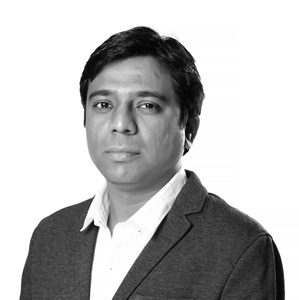
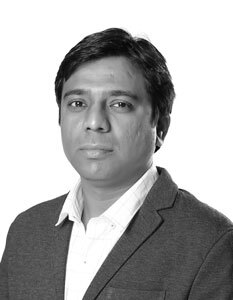
Rebuild the Our Team page from the current site's team
Shows the General Manager's message from hyssnainternational.com in its own
panel, then all 28 people across nine departments with their photos and
titles, grouped by department with a filter to show one at a time. People
who are no longer on the current site are left out.

Claude-Session: https://claude.ai/code/session_018ivjc74GiCrEBKV7VEWtDu

diff --git a/team.html b/team.html
@@ -4,7 +4,7 @@
 <meta charset="utf-8">
 <meta name="viewport" content="width=device-width, initial-scale=1, viewport-fit=cover">
 <title>Our team | Hyssna International</title>
-<meta name="description" content="Meet the team behind Hyssna International&#x27;s interior fit-out, design and joinery work.">
+<meta name="description" content="Meet Mr. Bassam Moussa, General Manager, and the 28 people across design, planning, procurement, projects, HSE and joinery at Hyssna International.">
 <link rel="icon" href="assets/media/favicon.png">
 <link rel="preconnect" href="https://fonts.googleapis.com">
 <link rel="preconnect" href="https://fonts.gstatic.com" crossorigin>
@@ -41,29 +41,58 @@
 <section class="intro">
   <div class="container">
     <nav aria-label="Breadcrumb"><ol class="crumbs"><li><a href="index.html" aria-label="Home"><svg viewBox="0 0 16 16" aria-hidden="true"><path d="M8 1.5 1 7.2V15h5v-4.5h4V15h5V7.2z"/></svg></a></li><li aria-current="page">Our team</li></ol></nav>
-    <div class="intro-copy"><h1>The people behind the work.</h1><p>Industry professionals across design, planning, procurement, projects, joinery and HSE, working as one team.</p></div>
+    <div class="intro-copy"><h1>The people behind the work.</h1><p>28 specialists across nine departments, led by our General Manager, Mr. Bassam Moussa.</p></div>
     
   </div>
 </section>
-<section class="sec tight" aria-label="A word from our General Manager">
-  <div class="container quote">
-    <div class="media"><img src="assets/media/team/gm.jpg" alt="General Manager of Hyssna International" loading="lazy"></div>
-    <blockquote class="reveal">
-      <p>"Our strength lies in teamwork: sharing strategies, knowledge and ideas across every department, with an open flow of communication and real team spirit."</p>
-      <footer><b>General Manager</b>Hyssna International L.L.C.</footer>
-    </blockquote>
+<section class="sec cream panel gm" aria-labelledby="gm-title">
+  <div class="container gm-grid">
+    <div class="gm-side reveal">
+      <div class="gm-photo"><img src="assets/media/team/bassam-moussa.jpg" alt="Mr. Bassam Moussa, General Manager of Hyssna International"></div>
+      <p class="gm-name"><b>Mr. Bassam Moussa</b>General Manager</p>
+    </div>
+    <div class="gm-body">
+      <span class="kicker reveal">A message from our General Manager</span>
+      <h2 id="gm-title" class="gm-quote reveal">Hyssna caters to understanding clients need &amp; addressing their need.</h2>
+      <div class="gm-text reveal"><p>It is my pleasure to introduce Hyssna International LLC as a leading interior contracting and designing company in UAE. Over three decades, Hyssna has been providing a quality service to our customers who have been looking for a company that could provide excellent and competitive services.</p><p>At Hyssna, we are committed to produce prominent and innovative interior design solutions especially for your working atmosphere. We are specialized in designing, planning and implementing of both domestic and commercial interiors. We enjoy good reputation for quality designs and high skills within your own budget and time scale.</p><p>Hyssna is built a reputation for consistently achieving highly individual aesthetic results for a discerning local clientele. We place particular emphasis on understanding our clients’ requirements prior to producing design solutions, which often surpass expectations. Our enthusiastic and experienced professionals, approach each project as a new challenge. We offer different style and innovative approach in our design concept and solutions.</p><p>Hyssna has committed in completing each project to the highest standards, while taking on the challenge of capturing its unique individuality. We have extensive experience in materials and manufacturing techniques, both locally and internationally, and able to provide our clients with everything they aspire for, within the budget they choose.</p><p>Hyssna offers you total solutions for Turnkey Projects under one roof. If you have an idea or concept you would like to discuss why not give us a call and see how we can start to play an active role to fulfill the design of your choice and liking.</p></div>
+      <p class="gm-sign reveal"><b>Mr. Bassam Moussa</b>General Manager, Hyssna International LLC</p>
+    </div>
   </div>
 </section>
-<section class="sec" aria-labelledby="meet-title">
+<section class="sec team" aria-labelledby="meet-title">
   <div class="container">
-    <div class="sec-title reveal"><h2 id="meet-title">Meet the team</h2></div>
-    <ul class="people"><li class="reveal"><div class="media"><img src="assets/media/team/abdallah.jpg" alt="Abdallah, Project Department" loading="lazy"></div><b>Abdallah</b><span>Project Department</span></li><li class="reveal"><div class="media"><img src="assets/media/team/musthafa.jpg" alt="Musthafa, Project Department" loading="lazy"></div><b>Musthafa</b><span>Project Department</span></li><li class="reveal"><div class="media"><img src="assets/media/team/bivi.jpg" alt="Bivi, Designer, Design Department" loading="lazy"></div><b>Bivi</b><span>Designer, Design Department</span></li><li class="reveal"><div class="media"><img src="assets/media/team/rommel.jpg" alt="Rommel, MEP Designer, Design Department" loading="lazy"></div><b>Rommel</b><span>MEP Designer, Design Department</span></li><li class="reveal"><div class="media"><img src="assets/media/team/sreenath.jpg" alt="Sreenath, Hyssna team" loading="lazy"></div><b>Sreenath</b><span>Hyssna team</span></li><li class="reveal"><div class="media"><img src="assets/media/team/clyde.jpg" alt="Clyde, Hyssna team" loading="lazy"></div><b>Clyde</b><span>Hyssna team</span></li><li class="reveal"><div class="media"><img src="assets/media/team/bassair.jpg" alt="Bassair, Hyssna team" loading="lazy"></div><b>Bassair</b><span>Hyssna team</span></li></ul>
-  </div>
-</section>
-<section class="sec cream panel" aria-labelledby="dept-title">
-  <div class="container">
-    <div class="sec-title reveal"><h2 id="dept-title">Every discipline, in-house</h2><p>Each department brings its own expertise, and all of them work to one programme and one standard.</p></div>
-    <ul class="icons "><li><span class="ic" aria-hidden="true"><svg viewBox="0 0 24 24"><path d="M4 20l4.5-1L19 8.5 15.5 5 5 15.5 4 20zM13.5 7l3.5 3.5"/></svg></span><h3>Design</h3><p>Architects, interior designers and engineers with more than 35 years of collective experience, from 2D layouts to 3D animation.</p></li><li><span class="ic" aria-hidden="true"><svg viewBox="0 0 24 24"><path d="M4 6h16v14H4zM4 10h16M8 3v4M16 3v4"/></svg></span><h3>Planning</h3><p>Led by Planning Manager Mr. Robin Francisco, the team builds the contractual programme in Primavera P6 and tracks it with earned value reports.</p></li><li><span class="ic" aria-hidden="true"><svg viewBox="0 0 24 24"><path d="M3 7.5l9-4.5 9 4.5-9 4.5-9-4.5zM3 7.5v9l9 4.5 9-4.5v-9M12 12v9"/></svg></span><h3>Procurement</h3><p>Quality-focused sourcing of loose fittings, FF&amp;E, finishes and lighting from around the world.</p></li><li><span class="ic" aria-hidden="true"><svg viewBox="0 0 24 24"><path d="M3 21V10l6 4v-4l6 4V5h6v16H3zM7 17h2M12 17h2"/></svg></span><h3>Fit-out factory</h3><p>Our joinery team manufactures counters, panelling, furniture and bespoke pieces in Musaffah.</p></li><li><span class="ic" aria-hidden="true"><svg viewBox="0 0 24 24"><path d="M5 21V4h10v17M15 9h4v12M3 21h18M8.5 8h3M8.5 12h3M8.5 16h3"/></svg></span><h3>Projects</h3><p>Project managers and site teams who coordinate every trade from first fix to handover.</p></li><li><span class="ic" aria-hidden="true"><svg viewBox="0 0 24 24"><path d="M12 3l7 3v6c0 4.5-3 7.5-7 9-4-1.5-7-4.5-7-9V6l7-3zM9 12l2 2 4-4"/></svg></span><h3>Health, safety and environment</h3><p>HSE Manager Mr. Dennis Mutasa leads safety planning, toolbox talks and site inspections.</p></li><li><span class="ic" aria-hidden="true"><svg viewBox="0 0 24 24"><path d="M9 11a3.5 3.5 0 100-7 3.5 3.5 0 000 7zM2.5 20c0-3.6 2.9-6.5 6.5-6.5s6.5 2.9 6.5 6.5M16 4.3a3.5 3.5 0 010 6.4M21.5 20c0-3-2-5.6-4.8-6.3"/></svg></span><h3>Sales</h3><p>Industry professionals with many years of experience who build lasting partnerships with our clients.</p></li><li><span class="ic" aria-hidden="true"><svg viewBox="0 0 24 24"><path d="M4 20V11M10 20V5M16 20v-6M2 20h20"/></svg></span><h3>Finance and administration</h3><p>The team that keeps every project and every department running smoothly.</p></li></ul>
+    <div class="sec-title reveal"><h2 id="meet-title">Meet the team</h2><p>Nine departments under one roof, from the first design sketch to the last piece of joinery.</p></div>
+    <div class="team-filter" role="group" aria-label="Show a department"><button type="button" data-team-filter="all" aria-pressed="true">All<span>28</span></button><button type="button" data-team-filter="admin" aria-pressed="false">Admin<span>8</span></button><button type="button" data-team-filter="finance" aria-pressed="false">Finance<span>3</span></button><button type="button" data-team-filter="design" aria-pressed="false">Design<span>4</span></button><button type="button" data-team-filter="procurement" aria-pressed="false">Procurement<span>2</span></button><button type="button" data-team-filter="commercial" aria-pressed="false">Commercial<span>2</span></button><button type="button" data-team-filter="planning" aria-pressed="false">Planning<span>1</span></button><button type="button" data-team-filter="projects" aria-pressed="false">Projects<span>6</span></button><button type="button" data-team-filter="hse" aria-pressed="false">HSE<span>1</span></button><button type="button" data-team-filter="factory" aria-pressed="false">Fit-out factory<span>1</span></button></div>
+    <div class="depts" id="team-list">
+    <div class="dept reveal" data-dept="admin">
+      <div class="dept-head"><span class="dept-no">01</span><h3>Admin</h3><p>Experienced administrative management and a dedicated team, working in a fully computerised environment to support every project from start to completion.</p></div>
+      <ul class="crew"><li><div class="crew-photo"><img src="assets/media/team/nagesh.jpg" alt="Mr. Nagesh, Admin Manager" loading="lazy"></div><b>Mr. Nagesh</b><span>Admin Manager</span></li><li><div class="crew-photo"><img src="assets/media/team/smitha-jobis.jpg" alt="Ms. Smitha Jobis, Project Controller" loading="lazy"></div><b>Ms. Smitha Jobis</b><span>Project Controller</span></li><li><div class="crew-photo"><img src="assets/media/team/ahmed-suleiman.jpg" alt="Mr. Ahmed Suleiman, PRO" loading="lazy"></div><b>Mr. Ahmed Suleiman</b><span>PRO</span></li><li><div class="crew-photo"><img src="assets/media/team/pauline.jpg" alt="Ms. Pauline, Document Controller" loading="lazy"></div><b>Ms. Pauline</b><span>Document Controller</span></li><li><div class="crew-photo"><img src="assets/media/team/vittal.jpg" alt="Mr. Vittal, Admin" loading="lazy"></div><b>Mr. Vittal</b><span>Admin</span></li><li><div class="crew-photo"><img src="assets/media/team/rica.jpg" alt="Ms. Rica, Admin" loading="lazy"></div><b>Ms. Rica</b><span>Admin</span></li><li><div class="crew-photo"><img src="assets/media/team/hanan.jpg" alt="Ms. Hanan, Admin Assistant" loading="lazy"></div><b>Ms. Hanan</b><span>Admin Assistant</span></li><li><div class="crew-photo"><img src="assets/media/team/fatima.jpg" alt="Ms. Fatima, Admin Assistant" loading="lazy"></div><b>Ms. Fatima</b><span>Admin Assistant</span></li></ul>
+    </div><div class="dept reveal" data-dept="finance">
+      <div class="dept-head"><span class="dept-no">02</span><h3>Finance</h3><p>Experienced finance management, working alongside administration to give every project integrated management support.</p></div>
+      <ul class="crew"><li><div class="crew-photo"><img src="assets/media/team/ambili.jpg" alt="Ms. Ambili, Senior Accountant" loading="lazy"></div><b>Ms. Ambili</b><span>Senior Accountant</span></li><li><div class="crew-photo"><img src="assets/media/team/diana.jpg" alt="Ms. Diana, Accountant" loading="lazy"></div><b>Ms. Diana</b><span>Accountant</span></li><li><div class="crew-photo"><img src="assets/media/team/bindu.jpg" alt="Ms. Bindu, Accountant" loading="lazy"></div><b>Ms. Bindu</b><span>Accountant</span></li></ul>
+    </div><div class="dept reveal" data-dept="design">
+      <div class="dept-head"><span class="dept-no">03</span><h3>Design</h3><p>Architects, interior designers and MEP designers with more than 35 years of collective experience, from 2D layouts to 3D perspectives and animation.</p></div>
+      <ul class="crew"><li><div class="crew-photo"><img src="assets/media/team/akbar.jpg" alt="Mr. Akbar, Designer" loading="lazy"></div><b>Mr. Akbar</b><span>Designer</span></li><li><div class="crew-photo"><img src="assets/media/team/bivin.jpg" alt="Mr. Bivin, Designer" loading="lazy"></div><b>Mr. Bivin</b><span>Designer</span></li><li><div class="crew-photo"><img src="assets/media/team/arbee.jpg" alt="Mr. Arbee, Designer" loading="lazy"></div><b>Mr. Arbee</b><span>Designer</span></li><li><div class="crew-photo"><img src="assets/media/team/rommel.jpg" alt="Mr. Rommel, MEP Designer" loading="lazy"></div><b>Mr. Rommel</b><span>MEP Designer</span></li></ul>
+    </div><div class="dept reveal" data-dept="procurement">
+      <div class="dept-head"><span class="dept-no">04</span><h3>Procurement</h3><p>Loose fittings, FF&amp;E, floor, wall and ceiling finishes and lighting, procured globally for each project in coordination with its project manager.</p></div>
+      <ul class="crew"><li><div class="crew-photo"><img src="assets/media/team/sain-basheer.jpg" alt="Mr. Sain Basheer, Procurement Manager" loading="lazy"></div><b>Mr. Sain Basheer</b><span>Procurement Manager</span></li><li><div class="crew-photo"><img src="assets/media/team/faye-salcedo.jpg" alt="Ms. Faye Salcedo, Assistant Procurement" loading="lazy"></div><b>Ms. Faye Salcedo</b><span>Assistant Procurement</span></li></ul>
+    </div><div class="dept reveal" data-dept="commercial">
+      <div class="dept-head"><span class="dept-no">05</span><h3>Commercial</h3><p>Industry professionals with many years of experience across the interiors and construction sector, building strong and lasting partnerships.</p></div>
+      <ul class="crew"><li><div class="crew-photo"><img src="assets/media/team/sreenath.jpg" alt="Mr. Sreenath, QA/QC Manager" loading="lazy"></div><b>Mr. Sreenath</b><span>QA/QC Manager</span></li><li><div class="crew-photo"><img src="assets/media/team/clyde.jpg" alt="Mr. Clyde, QA/QC" loading="lazy"></div><b>Mr. Clyde</b><span>QA/QC</span></li></ul>
+    </div><div class="dept reveal" data-dept="planning">
+      <div class="dept-head"><span class="dept-no">06</span><h3>Planning</h3><p>Contractual programmes built in Primavera P6 and tracked with earned value reports, to deliver every project on time and in budget.</p></div>
+      <ul class="crew"><li><div class="crew-photo"><img src="assets/media/team/robin-francisco.jpg" alt="Mr. Robin Francisco, Planning Manager" loading="lazy"></div><b>Mr. Robin Francisco</b><span>Planning Manager</span></li></ul>
+    </div><div class="dept reveal" data-dept="projects">
+      <div class="dept-head"><span class="dept-no">07</span><h3>Projects</h3><p>Your single point of contact on site, coordinating the programme, costs, approvals and every trade through to handover.</p></div>
+      <ul class="crew"><li><div class="crew-photo"><img src="assets/media/team/salas.jpg" alt="Mr. Salas, Sr. Project Manager" loading="lazy"></div><b>Mr. Salas</b><span>Sr. Project Manager</span></li><li><div class="crew-photo"><img src="assets/media/team/raja-guru.jpg" alt="Mr. Raja Guru, Sr. MEP Manager" loading="lazy"></div><b>Mr. Raja Guru</b><span>Sr. MEP Manager</span></li><li><div class="crew-photo"><img src="assets/media/team/abdallah.jpg" alt="Mr. Abdallah, Project Manager" loading="lazy"></div><b>Mr. Abdallah</b><span>Project Manager</span></li><li><div class="crew-photo"><img src="assets/media/team/suhil.jpg" alt="Mr. Suhil, Site Engineer" loading="lazy"></div><b>Mr. Suhil</b><span>Site Engineer</span></li><li><div class="crew-photo"><img src="assets/media/team/raj-kumar.jpg" alt="Mr. Raj Kumar, Site Engineer" loading="lazy"></div><b>Mr. Raj Kumar</b><span>Site Engineer</span></li><li><div class="crew-photo"><img src="assets/media/team/nathaniel.jpg" alt="Mr. Nathaniel, Site Engineer" loading="lazy"></div><b>Mr. Nathaniel</b><span>Site Engineer</span></li></ul>
+    </div><div class="dept reveal" data-dept="hse">
+      <div class="dept-head"><span class="dept-no">08</span><h3>HSE</h3><p>An occupational health and safety management system, with safe systems of work, safety checks and toolbox talks on every site.</p></div>
+      <ul class="crew"><li><div class="crew-photo"><img src="assets/media/team/dennis-mutasa.jpg" alt="Mr. Dennis Mutasa, HSE Manager" loading="lazy"></div><b>Mr. Dennis Mutasa</b><span>HSE Manager</span></li></ul>
+    </div><div class="dept reveal" data-dept="factory">
+      <div class="dept-head"><span class="dept-no">09</span><h3>Fit-out factory</h3><p>Our joinery division in Musaffah makes counters, cabinets, panelling, ceilings, wardrobes and wooden furniture for our projects.</p></div>
+      <ul class="crew"><li><div class="crew-photo"><img src="assets/media/team/hasan.jpg" alt="Mr. Hasan, Joinery Manager" loading="lazy"></div><b>Mr. Hasan</b><span>Joinery Manager</span></li></ul>
+    </div>
+    </div>
   </div>
 </section>
 <section class="sec" aria-labelledby="join-title">

diff --git a/assets/css/site.css b/assets/css/site.css
@@ -454,15 +454,6 @@ img[src*="adnoc-4"] { object-position: 75% 50%; }
 @media (max-width: 900px) { .faq { grid-template-columns: 1fr; gap: 30px; } .faq > :last-child { grid-column: 1; } }
 
 /* quote */
-.quote { display: grid; grid-template-columns: 4fr 1fr 7fr; align-items: center; }
-.quote > :last-child { grid-column: 3; }
-.quote .media { aspect-ratio: 4 / 4.8; max-width: 420px; }
-.quote .media img { object-position: 50% 25%; filter: grayscale(1); }
-.quote blockquote { margin: 0; }
-.quote blockquote p { font-size: clamp(1.4rem, 2.2vw, 2rem); line-height: 1.35; font-weight: 500; letter-spacing: -0.015em; color: var(--head); }
-.quote footer { margin-top: 28px; font-size: 1rem; }
-.quote footer b { display: block; color: var(--head); }
-@media (max-width: 900px) { .quote { grid-template-columns: 1fr; gap: 40px; } .quote > :last-child { grid-column: 1; } .quote .media { max-width: 300px; } }
 
 /* text + image */
 .text-media { display: grid; grid-template-columns: 5fr 1fr 6fr; align-items: center; }
@@ -505,13 +496,56 @@ img[src*="adnoc-4"] { object-position: 75% 50%; }
 @media (max-width: 700px) { .logos { grid-template-columns: repeat(3, minmax(0, 1fr)); } .logos li { padding: 10px 12px; } }
 
 /* team */
-.people { display: grid; grid-template-columns: repeat(4, 1fr); gap: 50px 30px; list-style: none; margin: 0; padding: 0; }
-.people .media { aspect-ratio: 4 / 4.6; margin-bottom: 18px; background: #e9e6dc; }
-.people .media img { object-position: 50% 20%; filter: grayscale(1); }
-.people b { display: block; font-size: 1.25rem; color: var(--head); }
-.people span { font-size: 0.9375rem; }
-@media (max-width: 1000px) { .people { grid-template-columns: repeat(3, 1fr); } }
-@media (max-width: 600px) { .people { grid-template-columns: 1fr 1fr; gap: 30px 16px; } }
+/* our team: General Manager's message */
+.gm-grid { display: grid; grid-template-columns: minmax(0, 4fr) minmax(0, 1fr) minmax(0, 7fr); align-items: start; }
+.gm-side { position: sticky; top: 40px; }
+/* the red strip beside the portrait echoes the hi mark */
+.gm-photo { width: min(100%, 320px); aspect-ratio: 166 / 200; border-left: 12px solid var(--red); border-radius: var(--r-sm); overflow: hidden; background: #fff; }
+.gm-photo img { width: 100%; height: 100%; object-fit: cover; }
+.gm-name { margin: 22px 0 0; font-size: 0.9375rem; }
+.gm-name b, .gm-sign b { display: block; font-size: 1.25rem; font-weight: 500; color: var(--head); }
+.gm-body { grid-column: 3; }
+.gm-quote { position: relative; margin: 26px 0 50px; padding-top: 70px; font-size: clamp(1.9rem, 3.4vw, 3.25rem); }
+.gm-quote::before { content: "\201C"; position: absolute; top: -10px; left: -4px; font-size: 8rem; line-height: 1; color: var(--red); }
+.gm-text { max-width: 44rem; font-size: 1.0625rem; }
+.gm-sign { margin: 40px 0 0; padding-top: 26px; border-top: 1px solid var(--line); max-width: 44rem; font-size: 0.9375rem; }
+@media (max-width: 900px) {
+  .gm-grid { grid-template-columns: 1fr; gap: 40px; }
+  .gm-side { position: static; display: flex; align-items: flex-end; gap: 20px; }
+  .gm-photo { width: 130px; flex: none; border-left-width: 8px; }
+  .gm-name b { font-size: 1.125rem; }
+  .gm-name { margin: 0; }
+  .gm-body { grid-column: 1; }
+  .gm-quote { padding-top: 54px; margin-bottom: 36px; }
+  .gm-quote::before { font-size: 6rem; }
+}
+
+/* our team: departments */
+.team-filter { position: sticky; top: 0; z-index: 5; display: flex; gap: 10px; padding-block: 16px; margin-bottom: 10px; overflow-x: auto; scrollbar-width: none; background: var(--dark); }
+.team-filter::-webkit-scrollbar { display: none; }
+.team-filter button { flex: none; display: inline-flex; align-items: center; gap: 8px; min-height: 44px; padding: 0 18px; border: 1px solid var(--line); border-radius: 50px; background: none; color: var(--head); font: inherit; font-size: 0.9375rem; font-weight: 500; cursor: pointer; transition: background .25s ease, color .25s ease, border-color .25s ease; }
+.team-filter button span { font-size: 0.8125rem; opacity: .6; }
+.team-filter button:hover { border-color: var(--head); }
+.team-filter button[aria-pressed="true"] { background: var(--cream); border-color: var(--cream); color: var(--dark); }
+.depts { scroll-margin-top: 80px; }
+.dept[hidden] { display: none; }
+.dept { display: grid; grid-template-columns: minmax(0, 4fr) minmax(0, 8fr); gap: 40px; padding-block: 50px; border-top: 1px solid var(--line); }
+.dept-head { position: sticky; top: 96px; align-self: start; }
+.dept-no { font-size: 0.9375rem; font-weight: 500; color: var(--red); }
+.dept-head h3 { margin: 10px 0 16px; font-size: clamp(1.6rem, 2.4vw, 2.25rem); }
+.dept-head p { max-width: 24rem; margin: 0; }
+.crew { display: grid; grid-template-columns: repeat(4, minmax(0, 1fr)); gap: 36px 20px; list-style: none; margin: 0; padding: 0; }
+.crew-photo { aspect-ratio: 233 / 300; margin-bottom: 16px; border-radius: var(--r-sm); overflow: hidden; background: #fff; }
+.crew-photo img { width: 100%; height: 100%; object-fit: cover; transition: transform .8s cubic-bezier(.2, .7, .2, 1); }
+.crew li:hover .crew-photo img { transform: scale(1.04); }
+.crew b { display: block; font-size: 1.0625rem; font-weight: 500; color: var(--head); }
+.crew span { display: block; margin-top: 2px; font-size: 0.9375rem; }
+@media (max-width: 1100px) { .crew { grid-template-columns: repeat(3, minmax(0, 1fr)); } }
+@media (max-width: 900px) {
+  .dept { grid-template-columns: 1fr; gap: 28px; padding-block: 40px; }
+  .dept-head { position: static; }
+}
+@media (max-width: 600px) { .crew { grid-template-columns: repeat(2, minmax(0, 1fr)); gap: 28px 14px; } .crew b { font-size: 1rem; } }
 
 /* staggered image grid (careers) */
 .masonry { display: grid; grid-template-columns: repeat(3, 1fr); gap: 24px; align-items: start; }

diff --git a/assets/js/site.js b/assets/js/site.js
@@ -189,6 +189,24 @@
     }
   }
 
+  // Our team: show one department, or all of them
+  var filters = document.querySelectorAll('[data-team-filter]');
+  if (filters.length) {
+    var depts = document.querySelectorAll('[data-dept]');
+    var list = document.getElementById('team-list');
+    filters.forEach(function (b) {
+      b.addEventListener('click', function () {
+        var key = b.getAttribute('data-team-filter');
+        filters.forEach(function (o) { o.setAttribute('aria-pressed', String(o === b)); });
+        depts.forEach(function (d) {
+          d.hidden = key !== 'all' && d.getAttribute('data-dept') !== key;
+          d.classList.add('in');
+        });
+        if (list.getBoundingClientRect().top < 0) list.scrollIntoView({ block: 'start' });
+      });
+    });
+  }
+
   // Lightbox
   var lb = document.getElementById('lightbox');
   var lbImg = document.getElementById('lb-img');

diff --git a/build.py b/build.py
@@ -172,14 +172,63 @@ CLIENTS = [
     ("dyncorp", "DynCorp International"), ("xerox", "Xerox"), ("oceaneering", "Oceaneering"),
 ]
 
+GM = ("bassam-moussa", "Mr. Bassam Moussa", "General Manager")
+GM_QUOTE = "Hyssna caters to understanding clients need &amp; addressing their need."
+# the General Manager's message, as written on the current hyssnainternational.com
+GM_MESSAGE = [
+    "It is my pleasure to introduce Hyssna International LLC as a leading interior contracting and designing company in UAE. "
+    "Over three decades, Hyssna has been providing a quality service to our customers who have been looking for a company "
+    "that could provide excellent and competitive services.",
+    "At Hyssna, we are committed to produce prominent and innovative interior design solutions especially for your working "
+    "atmosphere. We are specialized in designing, planning and implementing of both domestic and commercial interiors. "
+    "We enjoy good reputation for quality designs and high skills within your own budget and time scale.",
+    "Hyssna is built a reputation for consistently achieving highly individual aesthetic results for a discerning local "
+    "clientele. We place particular emphasis on understanding our clients\u2019 requirements prior to producing design "
+    "solutions, which often surpass expectations. Our enthusiastic and experienced professionals, approach each project as "
+    "a new challenge. We offer different style and innovative approach in our design concept and solutions.",
+    "Hyssna has committed in completing each project to the highest standards, while taking on the challenge of capturing "
+    "its unique individuality. We have extensive experience in materials and manufacturing techniques, both locally and "
+    "internationally, and able to provide our clients with everything they aspire for, within the budget they choose.",
+    "Hyssna offers you total solutions for Turnkey Projects under one roof. If you have an idea or concept you would like "
+    "to discuss why not give us a call and see how we can start to play an active role to fulfill the design of your "
+    "choice and liking.",
+]
+
+# departments and people, in the order of the Our Team page on the current site
 TEAM = [
-    ("abdallah", "Abdallah", "Project Department"),
-    ("musthafa", "Musthafa", "Project Department"),
-    ("bivi", "Bivi", "Designer, Design Department"),
-    ("rommel", "Rommel", "MEP Designer, Design Department"),
-    ("sreenath", "Sreenath", "Hyssna team"),
-    ("clyde", "Clyde", "Hyssna team"),
-    ("bassair", "Bassair", "Hyssna team"),
+    ("admin", "Admin",
+     "Experienced administrative management and a dedicated team, working in a fully computerised environment to support every project from start to completion.",
+     [("nagesh", "Mr. Nagesh", "Admin Manager"), ("smitha-jobis", "Ms. Smitha Jobis", "Project Controller"),
+      ("ahmed-suleiman", "Mr. Ahmed Suleiman", "PRO"), ("pauline", "Ms. Pauline", "Document Controller"),
+      ("vittal", "Mr. Vittal", "Admin"), ("rica", "Ms. Rica", "Admin"),
+      ("hanan", "Ms. Hanan", "Admin Assistant"), ("fatima", "Ms. Fatima", "Admin Assistant")]),
+    ("finance", "Finance",
+     "Experienced finance management, working alongside administration to give every project integrated management support.",
+     [("ambili", "Ms. Ambili", "Senior Accountant"), ("diana", "Ms. Diana", "Accountant"), ("bindu", "Ms. Bindu", "Accountant")]),
+    ("design", "Design",
+     "Architects, interior designers and MEP designers with more than 35 years of collective experience, from 2D layouts to 3D perspectives and animation.",
+     [("akbar", "Mr. Akbar", "Designer"), ("bivin", "Mr. Bivin", "Designer"),
+      ("arbee", "Mr. Arbee", "Designer"), ("rommel", "Mr. Rommel", "MEP Designer")]),
+    ("procurement", "Procurement",
+     "Loose fittings, FF&amp;E, floor, wall and ceiling finishes and lighting, procured globally for each project in coordination with its project manager.",
+     [("sain-basheer", "Mr. Sain Basheer", "Procurement Manager"), ("faye-salcedo", "Ms. Faye Salcedo", "Assistant Procurement")]),
+    ("commercial", "Commercial",
+     "Industry professionals with many years of experience across the interiors and construction sector, building strong and lasting partnerships.",
+     [("sreenath", "Mr. Sreenath", "QA/QC Manager"), ("clyde", "Mr. Clyde", "QA/QC")]),
+    ("planning", "Planning",
+     "Contractual programmes built in Primavera P6 and tracked with earned value reports, to deliver every project on time and in budget.",
+     [("robin-francisco", "Mr. Robin Francisco", "Planning Manager")]),
+    ("projects", "Projects",
+     "Your single point of contact on site, coordinating the programme, costs, approvals and every trade through to handover.",
+     [("salas", "Mr. Salas", "Sr. Project Manager"), ("raja-guru", "Mr. Raja Guru", "Sr. MEP Manager"),
+      ("abdallah", "Mr. Abdallah", "Project Manager"), ("suhil", "Mr. Suhil", "Site Engineer"),
+      ("raj-kumar", "Mr. Raj Kumar", "Site Engineer"), ("nathaniel", "Mr. Nathaniel", "Site Engineer")]),
+    ("hse", "HSE",
+     "An occupational health and safety management system, with safe systems of work, safety checks and toolbox talks on every site.",
+     [("dennis-mutasa", "Mr. Dennis Mutasa", "HSE Manager")]),
+    ("factory", "Fit-out factory",
+     "Our joinery division in Musaffah makes counters, cabinets, panelling, ceilings, wardrobes and wooden furniture for our projects.",
+     [("hasan", "Mr. Hasan", "Joinery Manager")]),
 ]
 
 PROCESS = [
@@ -834,37 +883,42 @@ def about():
 
 
 def team():
-    people = "".join(f'<li class="reveal">{media(s, n + ", " + r, folder="team")}<b>{n}</b><span>{r}</span></li>' for s, n, r in TEAM)
-    depts = [
-        ("pencil", "Design", "Architects, interior designers and engineers with more than 35 years of collective experience, from 2D layouts to 3D animation."),
-        ("calendar", "Planning", "Led by Planning Manager Mr. Robin Francisco, the team builds the contractual programme in Primavera P6 and tracks it with earned value reports."),
-        ("box", "Procurement", "Quality-focused sourcing of loose fittings, FF&amp;E, finishes and lighting from around the world."),
-        ("factory", "Fit-out factory", "Our joinery team manufactures counters, panelling, furniture and bespoke pieces in Musaffah."),
-        ("building", "Projects", "Project managers and site teams who coordinate every trade from first fix to handover."),
-        ("shield", "Health, safety and environment", "HSE Manager Mr. Dennis Mutasa leads safety planning, toolbox talks and site inspections."),
-        ("users", "Sales", "Industry professionals with many years of experience who build lasting partnerships with our clients."),
-        ("chart", "Finance and administration", "The team that keeps every project and every department running smoothly."),
-    ]
-    body = f'''{intro("The people behind the work.", "Industry professionals across design, planning, procurement, projects, joinery and HSE, working as one team.", [("team.html", "Our team")])}
-<section class="sec tight" aria-label="A word from our General Manager">
-  <div class="container quote">
-    {media("gm", "General Manager of Hyssna International", folder="team")}
-    <blockquote class="reveal">
-      <p>"Our strength lies in teamwork: sharing strategies, knowledge and ideas across every department, with an open flow of communication and real team spirit."</p>
-      <footer><b>General Manager</b>Hyssna International L.L.C.</footer>
-    </blockquote>
+    count = sum(len(d[3]) for d in TEAM)
+    pills = [f'<button type="button" data-team-filter="all" aria-pressed="true">All<span>{count}</span></button>']
+    groups = []
+    for n, (key, name, text, people) in enumerate(TEAM, 1):
+        pills.append(f'<button type="button" data-team-filter="{key}" aria-pressed="false">{name}<span>{len(people)}</span></button>')
+        crew = "".join(
+            f'<li><div class="crew-photo">{img(slug, f"{who}, {role}", folder="team")}</div><b>{who}</b><span>{role}</span></li>'
+            for slug, who, role in people)
+        groups.append(f'''<div class="dept reveal" data-dept="{key}">
+      <div class="dept-head"><span class="dept-no">{n:02d}</span><h3>{name}</h3><p>{text}</p></div>
+      <ul class="crew">{crew}</ul>
+    </div>''')
+    message = "".join(f"<p>{para}</p>" for para in GM_MESSAGE)
+    slug, gm_name, gm_role = GM
+    body = f'''{intro("The people behind the work.", f"{count} specialists across nine departments, led by our General Manager, {gm_name}.", [("team.html", "Our team")])}
+<section class="sec cream panel gm" aria-labelledby="gm-title">
+  <div class="container gm-grid">
+    <div class="gm-side reveal">
+      <div class="gm-photo">{img(slug, f"{gm_name}, {gm_role} of Hyssna International", lazy=False, folder="team")}</div>
+      <p class="gm-name"><b>{gm_name}</b>{gm_role}</p>
+    </div>
+    <div class="gm-body">
+      <span class="kicker reveal">A message from our General Manager</span>
+      <h2 id="gm-title" class="gm-quote reveal">{GM_QUOTE}</h2>
+      <div class="gm-text reveal">{message}</div>
+      <p class="gm-sign reveal"><b>{gm_name}</b>{gm_role}, Hyssna International LLC</p>
+    </div>
   </div>
 </section>
-<section class="sec" aria-labelledby="meet-title">
+<section class="sec team" aria-labelledby="meet-title">
   <div class="container">
-    <div class="sec-title reveal"><h2 id="meet-title">Meet the team</h2></div>
-    <ul class="people">{people}</ul>
-  </div>
-</section>
-<section class="sec cream panel" aria-labelledby="dept-title">
-  <div class="container">
-    <div class="sec-title reveal"><h2 id="dept-title">Every discipline, in-house</h2><p>Each department brings its own expertise, and all of them work to one programme and one standard.</p></div>
-    {icon_list(depts)}
+    <div class="sec-title reveal"><h2 id="meet-title">Meet the team</h2><p>Nine departments under one roof, from the first design sketch to the last piece of joinery.</p></div>
+    <div class="team-filter" role="group" aria-label="Show a department">{"".join(pills)}</div>
+    <div class="depts" id="team-list">
+    {"".join(groups)}
+    </div>
   </div>
 </section>
 <section class="sec" aria-labelledby="join-title">
@@ -874,7 +928,8 @@ def team():
   </div>
 </section>'''
     return page("team.html", "Our team | Hyssna International",
-                "Meet the team behind Hyssna International's interior fit-out, design and joinery work.", body, "team.html")
+                f"Meet {gm_name}, General Manager, and the {count} people across design, planning, procurement, projects, HSE and joinery at Hyssna International.",
+                body, "team.html")
 
 
 def careers():
